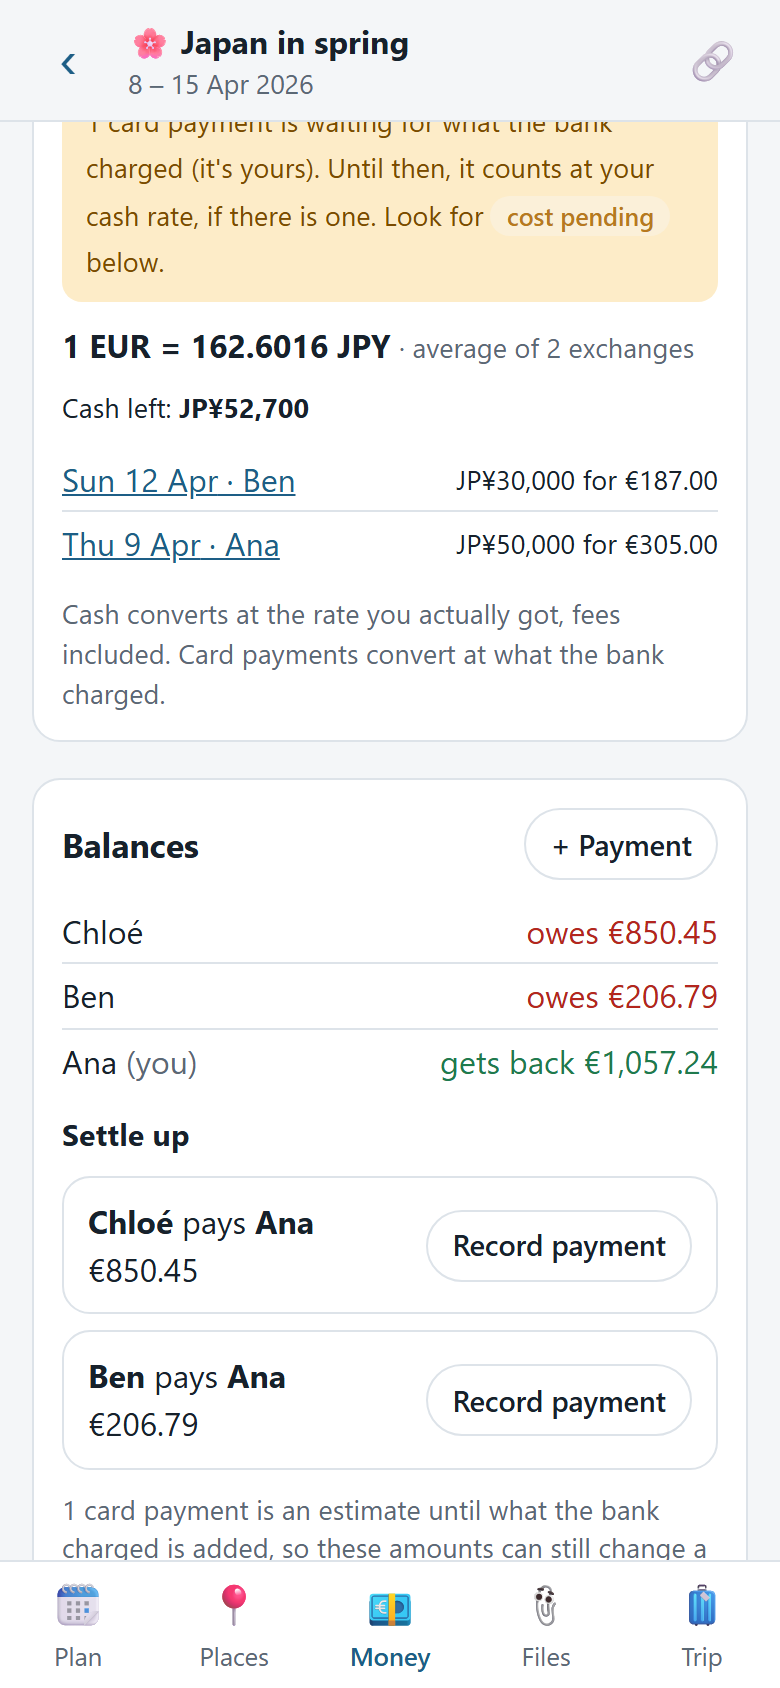
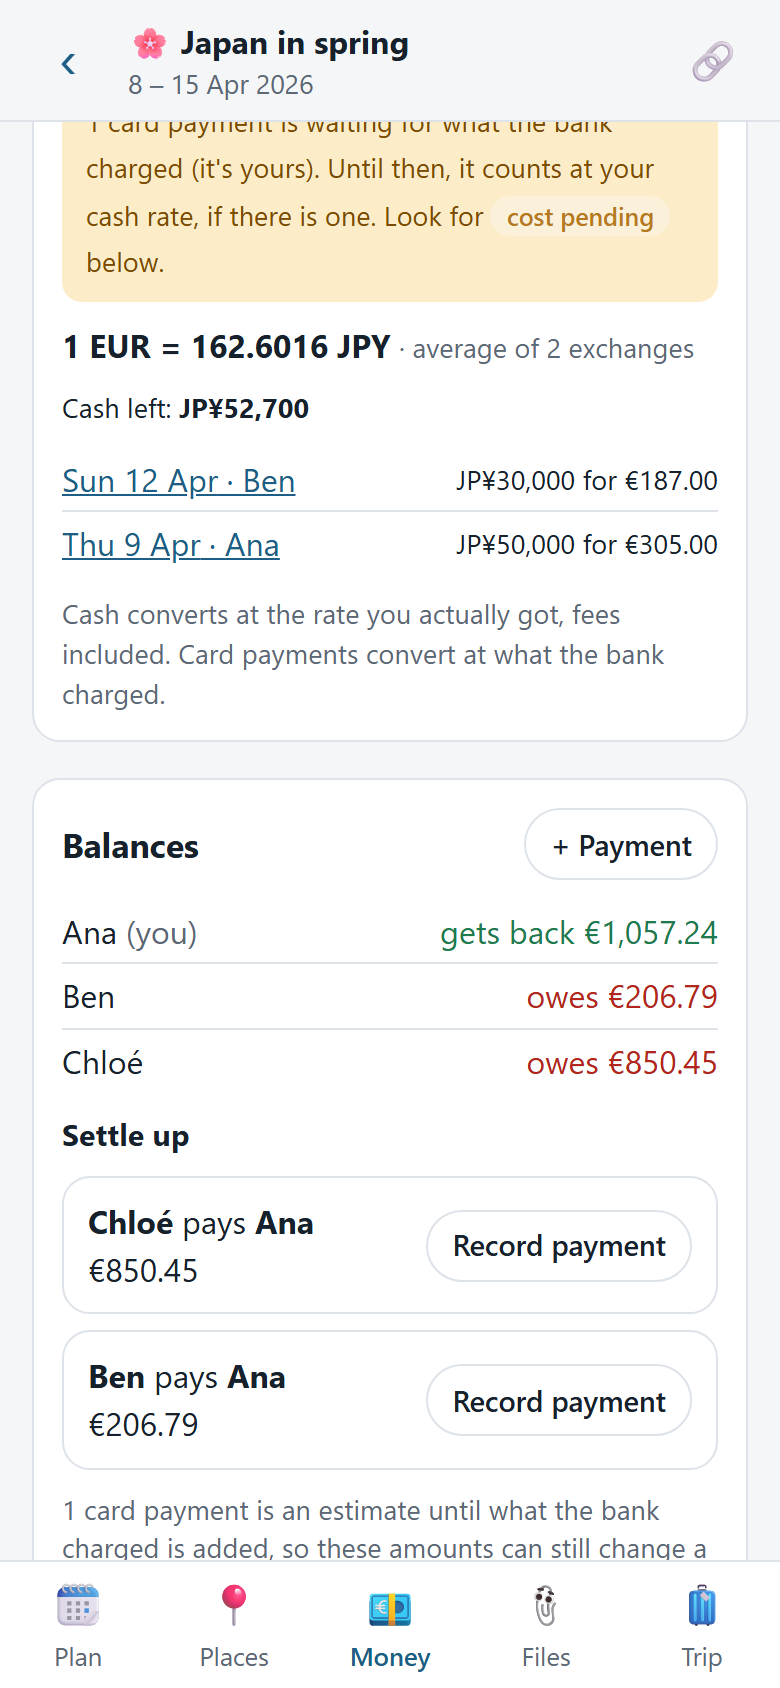
files-by-item: task 5 - review fixes

diff --git a/scripts/guide/screenshots.ts b/scripts/guide/screenshots.ts
@@ -164,7 +164,7 @@ await page
   .getByRole('heading', { name: 'Activities' })
   .evaluate((el) => el.scrollIntoView({ block: 'start' }))
 await shot('photos')
-await page.evaluate(() => window.scrollTo(0, 0))
+await page.evaluate('scrollTo(0, 0)')
 await page.getByRole('button', { name: 'Select', exact: true }).click()
 await page.locator('button.tile').nth(0).click()
 await page.locator('button.tile').nth(1).click()
